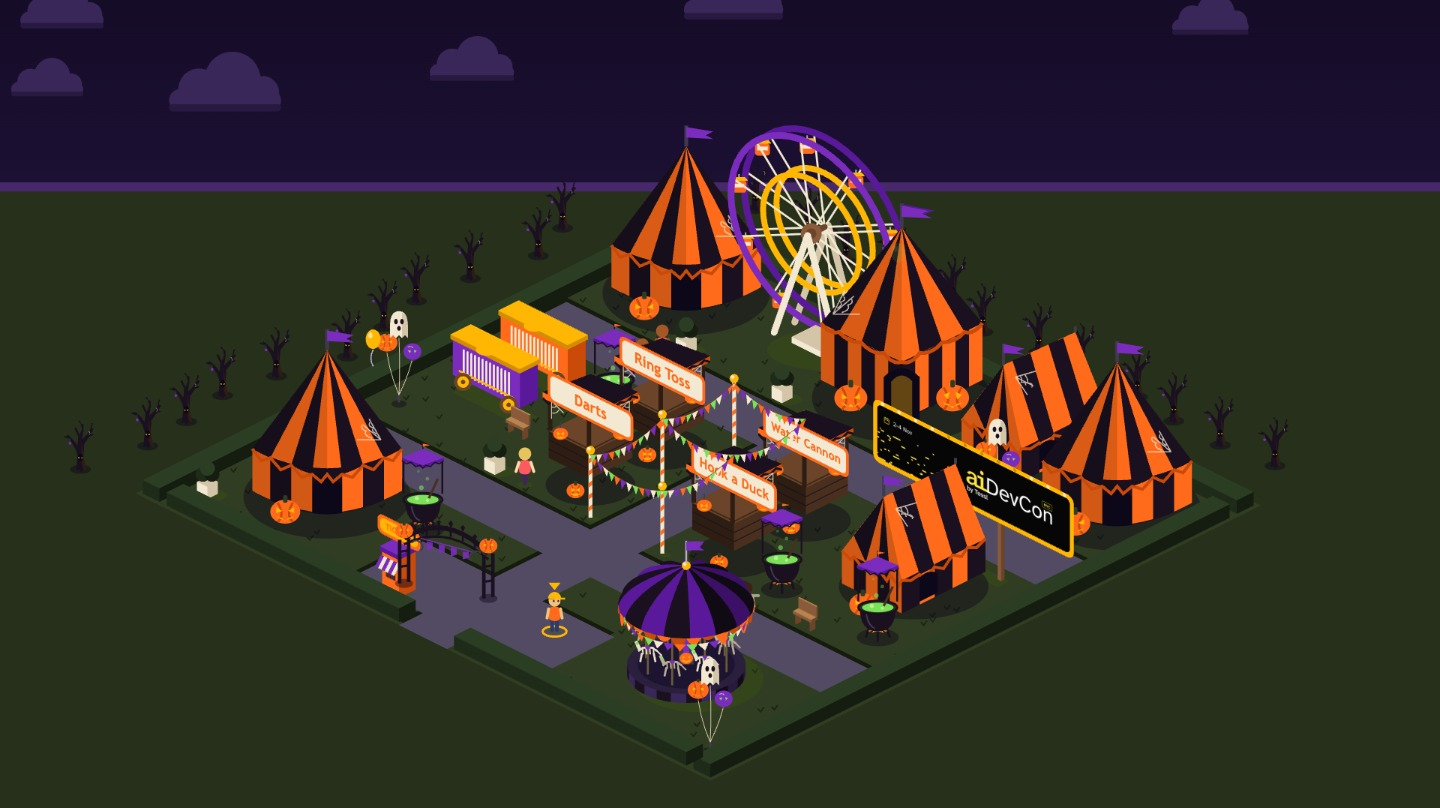
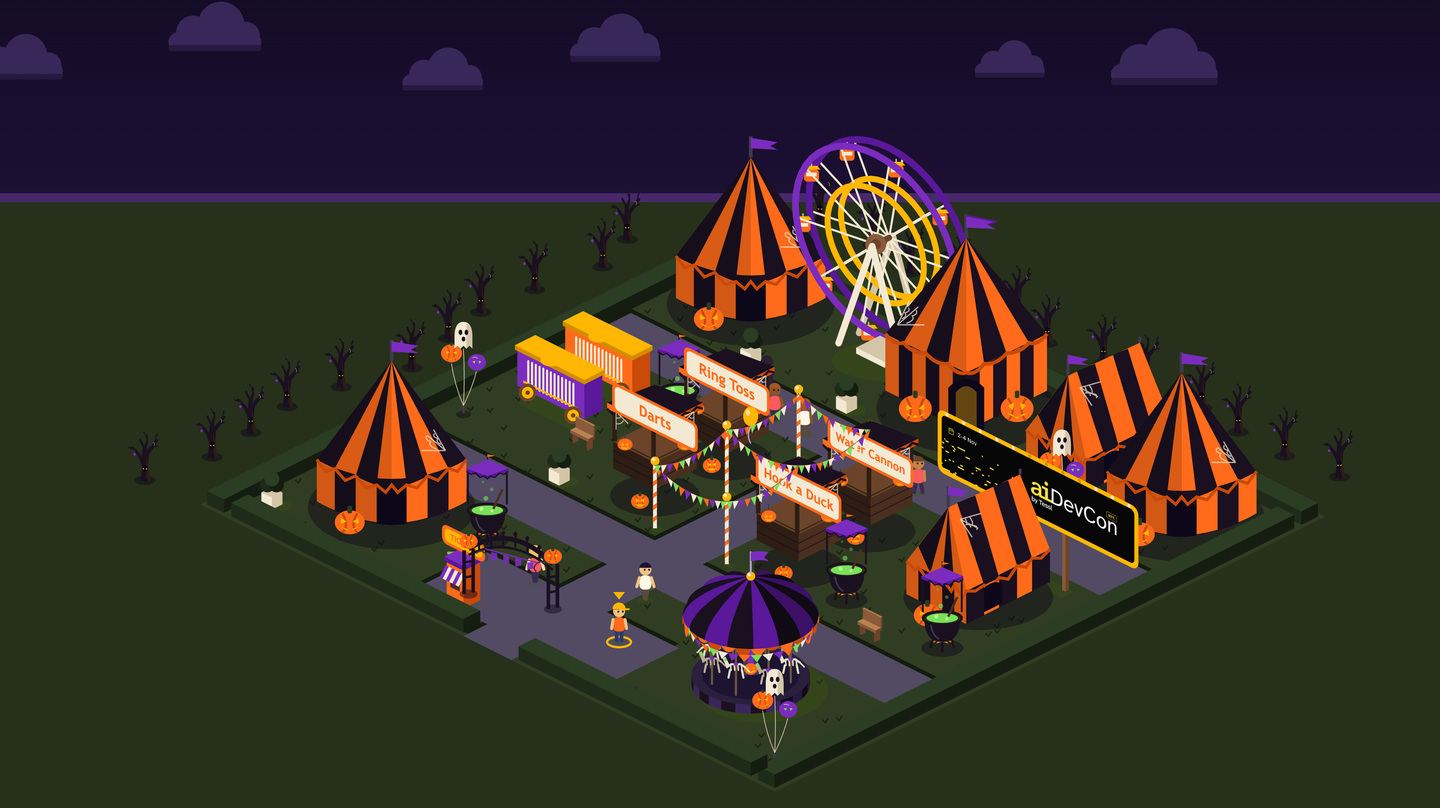
Replace social-preview.jpg and midway.jpg with 3x supersampled JPEG renders

diff --git a/index.html b/index.html
@@ -22,7 +22,7 @@
     />
     <meta
       property="og:image"
-      content="https://raw.githubusercontent.com/asakin/tessl-carnival/main/docs/social-preview.jpg"
+      content="https://raw.githubusercontent.com/asakin/tessl-carnival/main/docs/social-preview.jpg?v=2"
     />
     <meta property="og:image:width" content="1280" />
     <meta property="og:image:height" content="640" />
